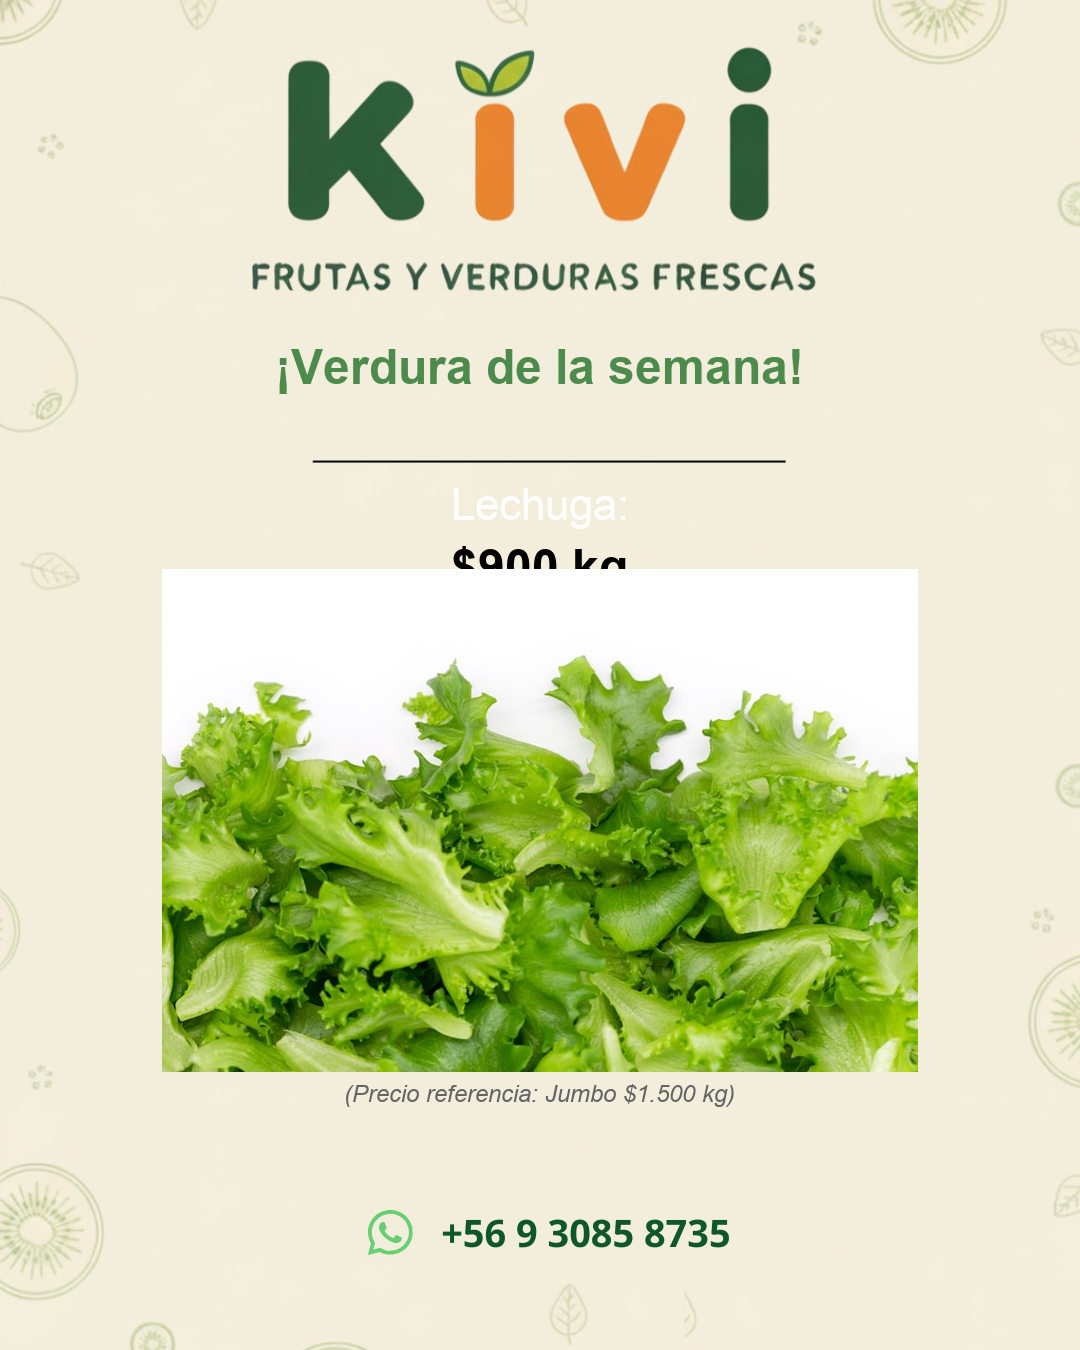
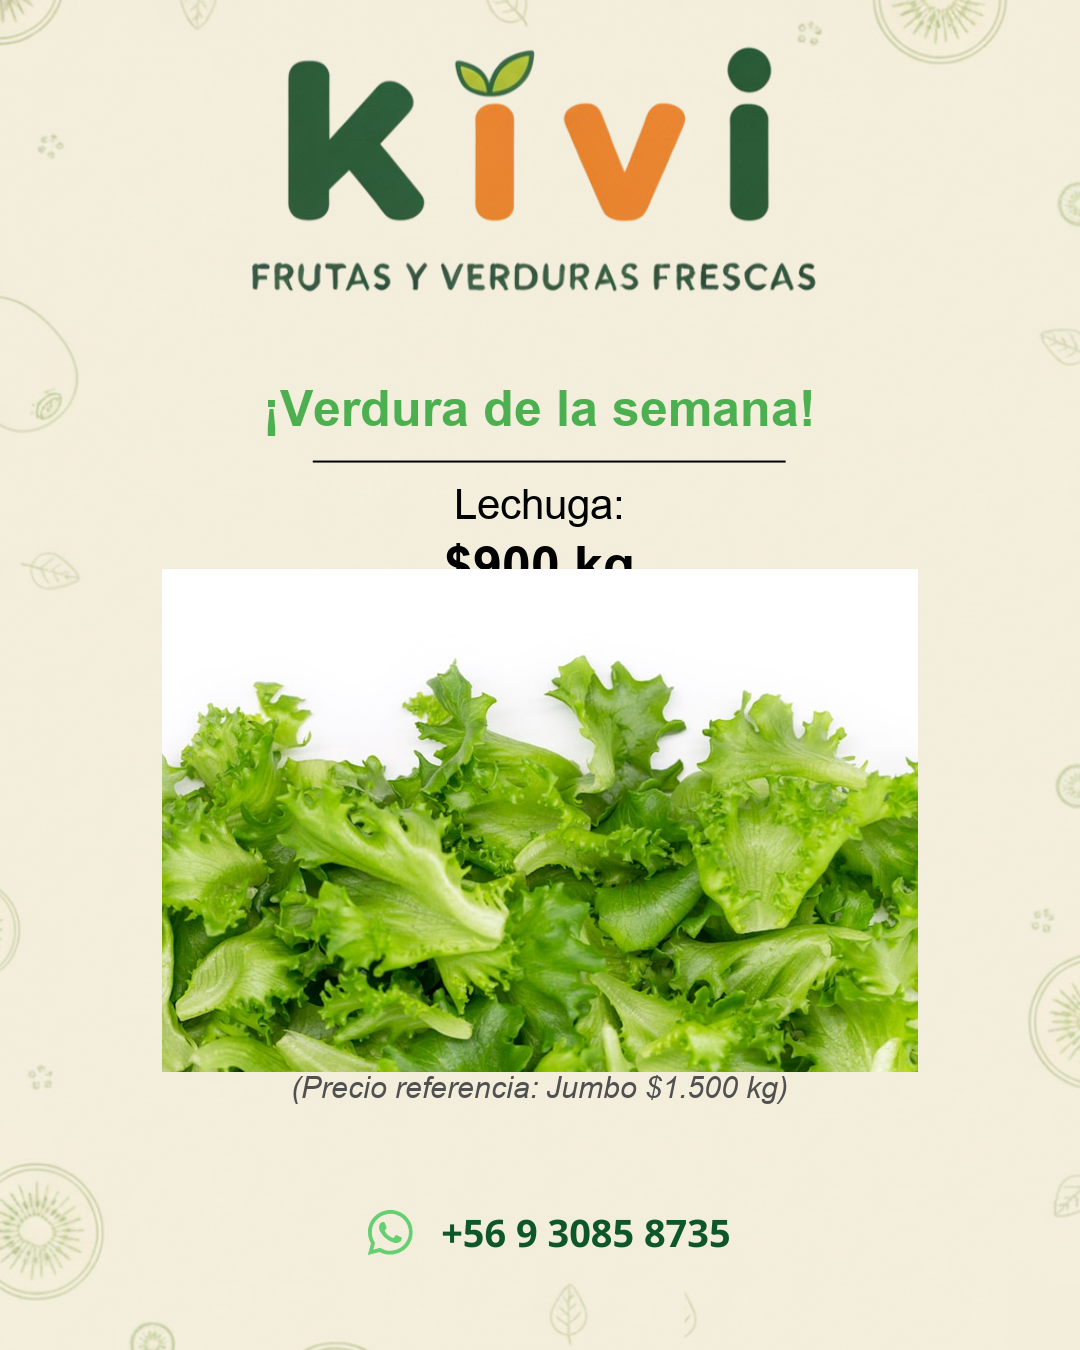
Automatizaciones 16

Changed region(s): [[0.2444, 0.2489, 0.7639, 0.4356], [0.275, 0.7778, 0.7333, 0.84]]

diff --git a/check_offers_images.py b/check_offers_images.py
@@ -1,0 +1,112 @@
+"""
+Script de diagnóstico para verificar las URLs de imágenes en ofertas semanales
+Ejecutar: python check_offers_images.py
+"""
+from app.wsgi import app
+from app.db import db
+from app.models.weekly_offer import WeeklyOffer
+from app.models.product import Product
+
+with app.app_context():
+    print("=" * 70)
+    print("🔍 DIAGNÓSTICO: URLs de Imágenes en Ofertas Semanales")
+    print("=" * 70)
+    
+    # Obtener las 3 ofertas
+    fruta = WeeklyOffer.query.filter_by(type='fruta').order_by(WeeklyOffer.updated_at.desc()).first()
+    verdura = WeeklyOffer.query.filter_by(type='verdura').order_by(WeeklyOffer.updated_at.desc()).first()
+    especial = WeeklyOffer.query.filter_by(type='especial').order_by(WeeklyOffer.updated_at.desc()).first()
+    
+    ofertas = [
+        ('Fruta', fruta),
+        ('Verdura', verdura),
+        ('Especial', especial)
+    ]
+    
+    for tipo, oferta in ofertas:
+        print(f"\n{'=' * 70}")
+        print(f"📦 OFERTA: {tipo}")
+        print('=' * 70)
+        
+        if not oferta:
+            print(f"❌ ERROR: No existe oferta de tipo '{tipo}'")
+            continue
+        
+        print(f"  ID de oferta: {oferta.id}")
+        print(f"  Precio: {oferta.price}")
+        print(f"  Precio referencia: {oferta.reference_price}")
+        print(f"  Product ID: {oferta.product_id}")
+        
+        if not oferta.product:
+            print(f"  ❌ ERROR: No hay producto asociado (product_id={oferta.product_id})")
+            continue
+        
+        print(f"\n  📝 Producto asociado:")
+        print(f"    - ID: {oferta.product.id}")
+        print(f"    - Nombre: {oferta.product.name}")
+        print(f"    - Categoría: {oferta.product.category}")
+        
+        print(f"\n  🖼  URL de imagen:")
+        if oferta.product.quality_photo_url:
+            url = oferta.product.quality_photo_url
+            print(f"    ✅ SÍ tiene URL: {url[:80]}{'...' if len(url) > 80 else ''}")
+            
+            # Verificar si es una URL válida
+            if url.startswith('http://') or url.startswith('https://'):
+                print(f"    ✅ URL válida (HTTP/HTTPS)")
+            else:
+                print(f"    ⚠  ADVERTENCIA: URL no empieza con http:// o https://")
+                print(f"    Esto puede causar problemas al descargar la imagen")
+        else:
+            print(f"    ❌ NO tiene URL (quality_photo_url está vacío)")
+            print(f"    ⚠  ESTE ES EL PROBLEMA: Esta imagen no aparecerá")
+    
+    # Resumen final
+    print(f"\n{'=' * 70}")
+    print("📊 RESUMEN")
+    print('=' * 70)
+    
+    total_ofertas = sum(1 for _, o in ofertas if o is not None)
+    ofertas_con_imagen = sum(
+        1 for _, o in ofertas 
+        if o is not None and o.product and o.product.quality_photo_url
+    )
+    
+    print(f"  Total ofertas: {total_ofertas}/3")
+    print(f"  Ofertas con imagen: {ofertas_con_imagen}/3")
+    
+    if ofertas_con_imagen == 3:
+        print(f"\n  ✅ PERFECTO: Todas las ofertas tienen imagen")
+        print(f"  Si las imágenes no aparecen, el problema es en otro lado.")
+    elif ofertas_con_imagen > 0:
+        print(f"\n  ⚠  PROBLEMA PARCIAL: {3 - ofertas_con_imagen} ofertas sin imagen")
+        print(f"  Necesitas configurar quality_photo_url para esas ofertas")
+    else:
+        print(f"\n  ❌ ERROR: NINGUNA oferta tiene imagen configurada")
+        print(f"  Todas las ofertas necesitan quality_photo_url en sus productos")
+    
+    print(f"\n{'=' * 70}")
+    print("🔧 SOLUCIÓN (si hay ofertas sin imagen):")
+    print('=' * 70)
+    print("\nEjecuta este SQL para configurar las URLs:")
+    print()
+    
+    for tipo, oferta in ofertas:
+        if oferta and oferta.product and not oferta.product.quality_photo_url:
+            print(f"-- {tipo}: {oferta.product.name}")
+            print(f"UPDATE products ")
+            print(f"SET quality_photo_url = 'https://tu-url-aqui.jpg'")
+            print(f"WHERE id = {oferta.product.id};")
+            print()
+    
+    print("\nO si ya tienen foto en otro campo, puedes copiar:")
+    print()
+    for tipo, oferta in ofertas:
+        if oferta and oferta.product and not oferta.product.quality_photo_url:
+            print(f"-- Si el producto {oferta.product.name} ya tiene otra URL de foto")
+            print(f"-- Revisa: SELECT * FROM products WHERE id = {oferta.product.id};")
+            print(f"-- Y actualiza quality_photo_url con esa URL")
+            print()
+    
+    print('=' * 70)
+

diff --git a/check_images_simple.py b/check_images_simple.py
@@ -1,0 +1,102 @@
+"""
+Script simple para verificar las URLs de imágenes en productos de ofertas
+"""
+from app.wsgi import app
+from app.db import db
+
+with app.app_context():
+    # SQL directo para evitar problemas con columnas que pueden no existir
+    query = """
+    SELECT 
+        wo.id as offer_id,
+        wo.type as offer_type,
+        wo.price,
+        wo.reference_price,
+        p.id as product_id,
+        p.name as product_name,
+        p.quality_photo_url
+    FROM weekly_offers wo
+    LEFT JOIN products p ON wo.product_id = p.id
+    WHERE wo.type IN ('fruta', 'verdura', 'especial')
+    ORDER BY wo.type;
+    """
+    
+    results = db.session.execute(db.text(query)).fetchall()
+    
+    print("=" * 80)
+    print("🔍 DIAGNÓSTICO: URLs de Imágenes en Ofertas Semanales")
+    print("=" * 80)
+    
+    if not results:
+        print("\n❌ ERROR: No se encontraron ofertas semanales")
+        print("   Necesitas crear ofertas para fruta, verdura y especial")
+        print("\n" + "=" * 80)
+        exit(1)
+    
+    for row in results:
+        print(f"\n{'─' * 80}")
+        print(f"📦 Oferta: {row.offer_type.upper()}")
+        print(f"{'─' * 80}")
+        print(f"  ID Oferta: {row.offer_id}")
+        print(f"  Precio: {row.price}")
+        print(f"  Precio Ref: {row.reference_price}")
+        
+        if not row.product_id:
+            print(f"  ❌ ERROR: No hay producto asociado")
+            continue
+        
+        print(f"\n  Producto:")
+        print(f"    ID: {row.product_id}")
+        print(f"    Nombre: {row.product_name}")
+        
+        print(f"\n  Imagen:")
+        if row.quality_photo_url:
+            url = row.quality_photo_url
+            print(f"    ✅ URL: {url[:70]}{'...' if len(url) > 70 else ''}")
+            
+            if url.startswith('http://') or url.startswith('https://'):
+                print(f"    ✅ Válida (HTTP/HTTPS)")
+            else:
+                print(f"    ⚠  No empieza con HTTP - puede fallar")
+        else:
+            print(f"    ❌ quality_photo_url está VACÍO")
+            print(f"    ⚠  ESTE ES EL PROBLEMA - La imagen no aparecerá")
+    
+    # Resumen
+    print(f"\n{'=' * 80}")
+    print("📊 RESUMEN")
+    print('=' * 80)
+    
+    total = len(results)
+    con_imagen = sum(1 for r in results if r.quality_photo_url)
+    sin_imagen = total - con_imagen
+    
+    print(f"\n  Total ofertas: {total}")
+    print(f"  Con imagen: {con_imagen} ✅")
+    print(f"  Sin imagen: {sin_imagen} ❌")
+    
+    if sin_imagen > 0:
+        print(f"\n{'=' * 80}")
+        print("🔧 SOLUCIÓN: Ejecuta este SQL en tu base de datos")
+        print('=' * 80)
+        print()
+        
+        for row in results:
+            if not row.quality_photo_url:
+                print(f"-- {row.offer_type}: {row.product_name}")
+                print(f"UPDATE products")
+                print(f"SET quality_photo_url = 'https://tu-servidor.com/imagen-{row.product_name.lower().replace(' ', '-')}.jpg'")
+                print(f"WHERE id = {row.product_id};")
+                print()
+        
+        print("\n💡 TIP: Usa las mismas URLs que ya funcionan en el catálogo")
+        print("   Revisa en la página de Productos cuáles URLs ya tienes configuradas")
+    else:
+        print(f"\n  ✅ PERFECTO: Todas las ofertas tienen imagen configurada")
+        print(f"\n  Si aún así no aparecen, revisa:")
+        print(f"    1. Que las URLs sean accesibles públicamente")
+        print(f"    2. Los logs del backend cuando generas el carrusel")
+        print(f"    3. Que el directorio generated_images/ exista en el servidor")
+    
+    print("\n" + "=" * 80)
+

diff --git a/app/social/utils/image_processor.py b/app/social/utils/image_processor.py
@@ -142,11 +142,11 @@ def generate_offer_image(
             italic=positions['reference_price'].get('italic', False)
         )
         
-        # Colores según especificación del usuario
-        white_color = (255, 255, 255)  # Blanco para nombre del producto
-        dark_green = (76, 139, 76)  # Verde oscuro para título
-        black_color = (0, 0, 0)  # Negro para el precio (negrita)
-        gray_color = (100, 100, 100)  # Gris para precio referencia
+        # Colores corregidos según feedback
+        # Verde del logo Kivi: RGB(76, 175, 80) aproximadamente
+        kivi_green = (76, 175, 80)  # Verde brillante del logo Kivi
+        black_color = (0, 0, 0)  # Negro para nombre y precio
+        gray_color = (80, 80, 80)  # Gris más oscuro para precio referencia
         
         # Obtener posiciones en píxeles directamente
         title_y = int(positions['title']['y'])
@@ -164,16 +164,16 @@ def generate_offer_image(
             draw.text((x_position, y_position), text, fill=color, font=font)
             print(f"  Dibujando '{text}' en posición ({x_position}, {y_position})")
         
-        # Dibujar título (arriba de la línea separadora)
+        # Dibujar título con verde Kivi (arriba de la línea separadora)
         print(f"Dibujando título: {title}")
-        center_text(title, title_font, title_y, dark_green)
+        center_text(title, title_font, title_y, kivi_green)
         
-        # Dibujar nombre del producto en BLANCO (abajo de la línea separadora)
+        # Dibujar nombre del producto en NEGRO (abajo de la línea separadora)
         product_text = f"{product_name}:"
         print(f"Dibujando nombre producto: {product_text}")
-        center_text(product_text, product_font, product_y, white_color)
+        center_text(product_text, product_font, product_y, black_color)
         
-        # Dibujar precio en NEGRO y NEGRITA
+        # Dibujar precio en NEGRO NEGRITA DESTACADO
         print(f"Dibujando precio: {price}")
         center_text(price, price_font, price_y, black_color)
         

diff --git a/app/social/utils/image_positions.py b/app/social/utils/image_positions.py
@@ -5,38 +5,39 @@ import json
 import os
 
 # Posiciones basadas en plantilla de 1080x1350 píxeles
-# Ajustadas según feedback: título arriba de línea, nombre y precio abajo
+# Correcciones finales: fuente redonda, verde Kivi, nombre negro, precio destacado
 DEFAULT_POSITIONS = {
     "title": {
         "x": "center",
-        "y": 340,  # ARRIBA de la línea separadora (línea está en ~420px)
-        "font_size": 48,
-        "bold": True
+        "y": 380,  # Más cerca de la línea separadora (~420px)
+        "font_size": 50,
+        "bold": True,
+        "font_style": "rounded"  # Fuente más redonda
     },
     "product_name": {
         "x": "center",
         "y": 480,  # ABAJO de la línea separadora
-        "font_size": 44,
+        "font_size": 42,
         "bold": False,
-        "color": "white"  # Nombre en blanco
+        "color": "black"  # Nombre en NEGRO (no blanco)
     },
     "price": {
         "x": "center",
-        "y": 540,  # Justo después del nombre del producto
-        "font_size": 48,
+        "y": 535,  # Justo después del nombre del producto
+        "font_size": 52,
         "bold": True,
-        "color": "black"  # Precio en negro y negrita
+        "color": "black"  # Precio en negro NEGRITA destacado
     },
     "product_image": {
         "x": "center",
-        "y": 820,  # Centro de la imagen - más abajo para dar espacio
+        "y": 820,  # Centro de la imagen
         "max_width": 0.70,  # 70% del ancho de la plantilla
         "max_height": 0.38  # 38% de la altura
     },
     "reference_price": {
         "x": "center",
-        "y": 1080,  # Más abajo, antes del contacto de WhatsApp
-        "font_size": 24,
+        "y": 1070,  # Antes del contacto de WhatsApp
+        "font_size": 30,  # Más grande (era 24)
         "bold": False,
         "italic": True,
         "color": "gray"

diff --git a/app/social/services/content_generator.py b/app/social/services/content_generator.py
@@ -140,9 +140,14 @@ def generate_weekly_offers_carousel():
     media_urls = []
     
     # Slide 1: Verdura
+    print(f"Procesando oferta de verdura:")
+    print(f"  - Producto: {verdura.product.name if verdura.product else 'No hay producto'}")
+    print(f"  - quality_photo_url: {verdura.product.quality_photo_url if verdura.product else 'N/A'}")
+    
     if verdura.product and verdura.product.quality_photo_url:
         # Generar imagen usando la plantilla - OBLIGATORIO
-        print(f"Generando imagen para verdura: {verdura.product.name}")
+        print(f"✓ Generando imagen para verdura: {verdura.product.name}")
+        print(f"  URL de imagen: {verdura.product.quality_photo_url}")
         generated_image_path = generate_offer_image(
             offer_type='verdura',
             product_name=verdura.product.name,
